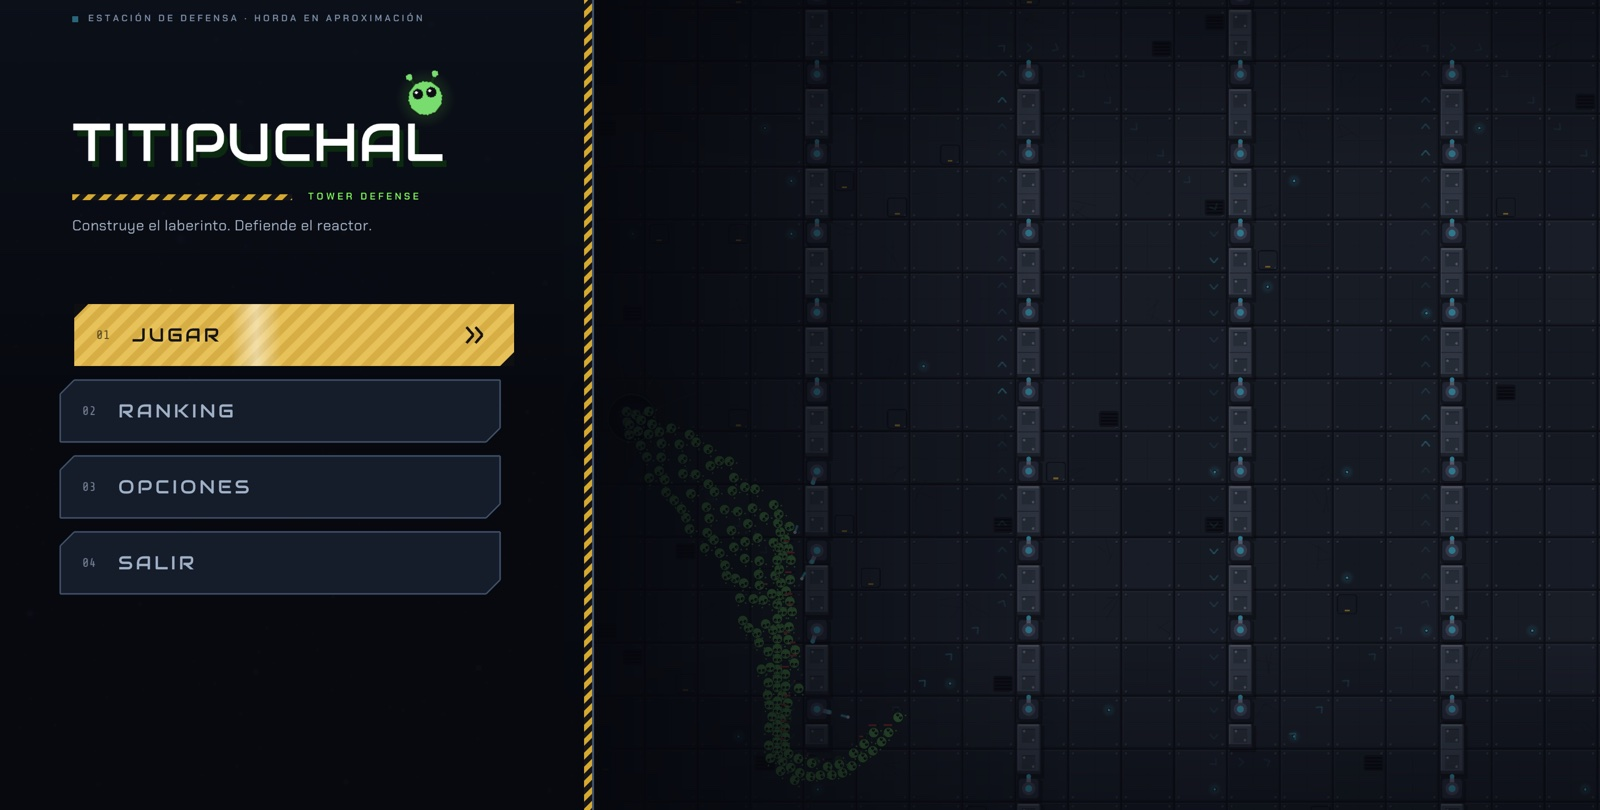
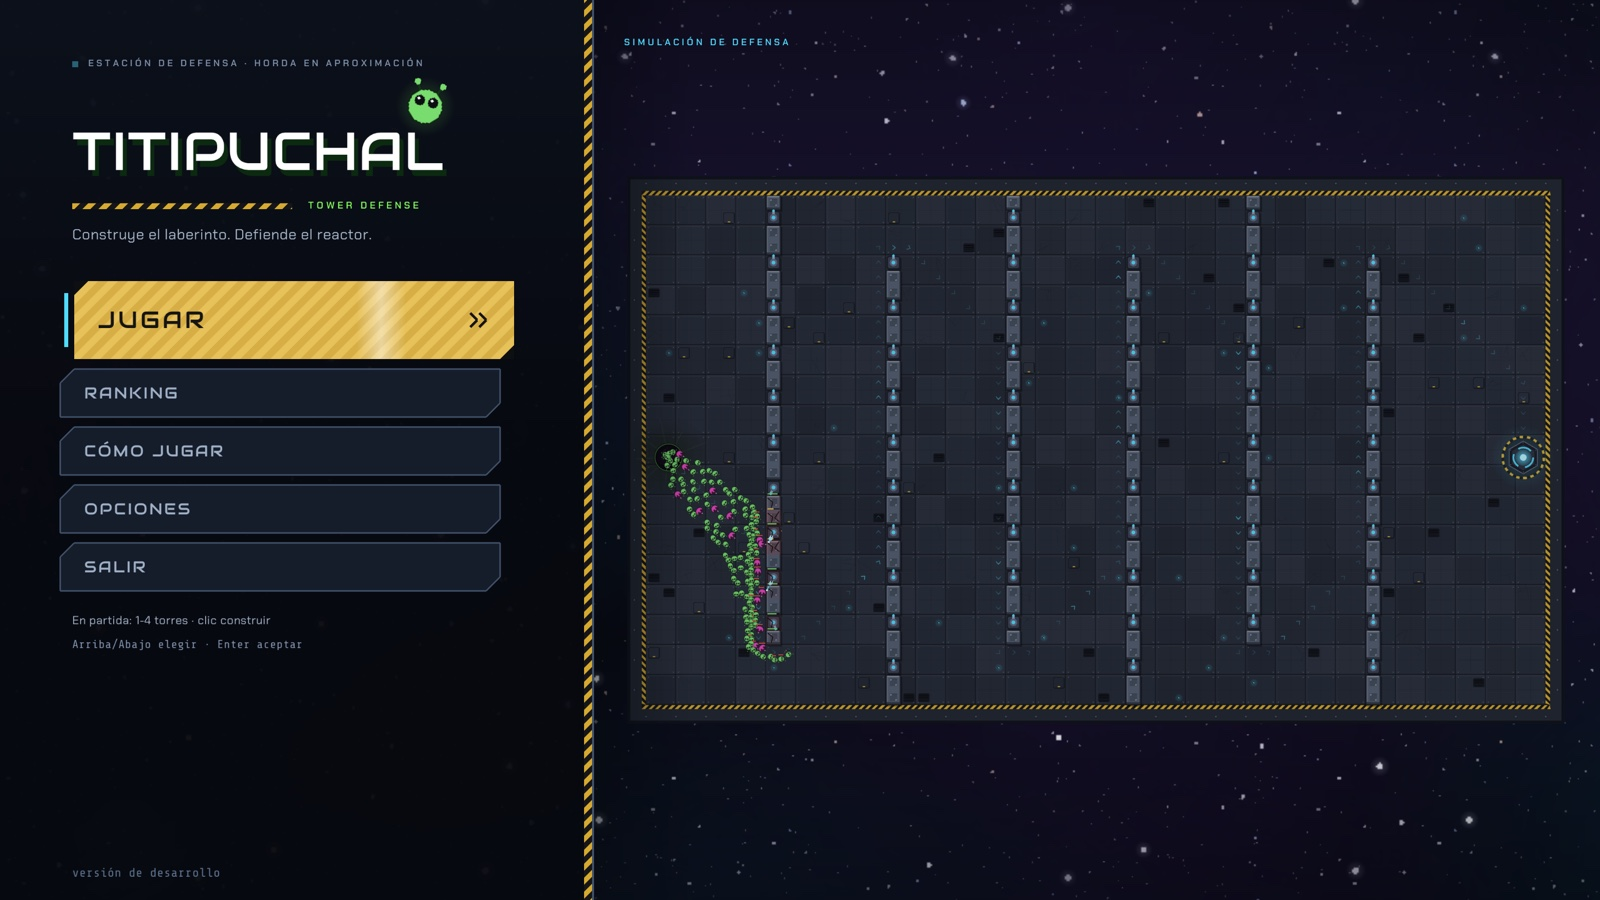
Actualiza la página y las capturas de Titipuchal 0.4.0

diff --git a/README.md b/README.md
@@ -26,6 +26,10 @@ El juego se actualiza solo: cuando hay una versión nueva, el menú principal of
 
 ## Cómo se juega
 
+Los créditos están junto a las construcciones. Al empezar, una guía te ayuda a colocar tu primera defensa. Pulsa `F` para ver el tablero completo entre los paneles de la interfaz.
+
+En el menú principal, **Cómo jugar** muestra las cuatro construcciones y los controles. Puedes volver a consultarlo cuando lo necesites.
+
 - **Construye donde quieras**: torres Blaster, Tintilines, Gravitones y muros en cualquier casilla libre. Los aliens recalculan su camino al instante, así que el laberinto lo diseñas tú.
 - **Tintilín**: un láser que pega al instante y rebota entre cuatro aliens: ideal contra la horda apretada.
 - **Gravitón**: no dispara, emite ondas gravitacionales que frenan a la horda para que pase más tiempo bajo el fuego de tus Blasters.
@@ -46,12 +50,17 @@ Al compartir por WhatsApp, tus amigos ven una tarjeta como esta con tu laberinto
 
 ![Tarjeta de la partida para WhatsApp](screenshots/compartir.jpg)
 
+![Interfaz de construcción con créditos y funciones de cada torre](screenshots/hud.jpg)
+
 ![Menú principal](screenshots/menu.jpg)
+
+![Cómo jugar: construcciones y controles](screenshots/ayuda.jpg)
 
 ## Controles
 
 | Acción | Tecla |
 |---|---|
+| Menú principal | `↑` / `↓` y `Enter`, o ratón; **Cómo jugar** abre la ayuda |
 | Elegir Blaster / Muro / Gravitón / Tintilín | `1` / `2` / `3` / `4` o clic en el muelle |
 | Construir (se puede arrastrar) | clic izquierdo |
 | Vender (50 %) | clic derecho sobre la construcción |
@@ -60,4 +69,6 @@ Al compartir por WhatsApp, tus amigos ven una tarjeta como esta con tu laberinto
 | Zoom | rueda del ratón / trackpad (`F` encuadra el tablero) |
 | Mover la cámara | `WASD` / flechas o botón central |
 | Pausa | `Esc` / `P` |
+| Ayuda durante la partida | `H` o botón Ayuda; `H` / `Esc` cierra |
+| Mostrar / ocultar datos de partida | `Tab` o botón Datos |
 | Compartir la partida (tras perder) | `W` |
